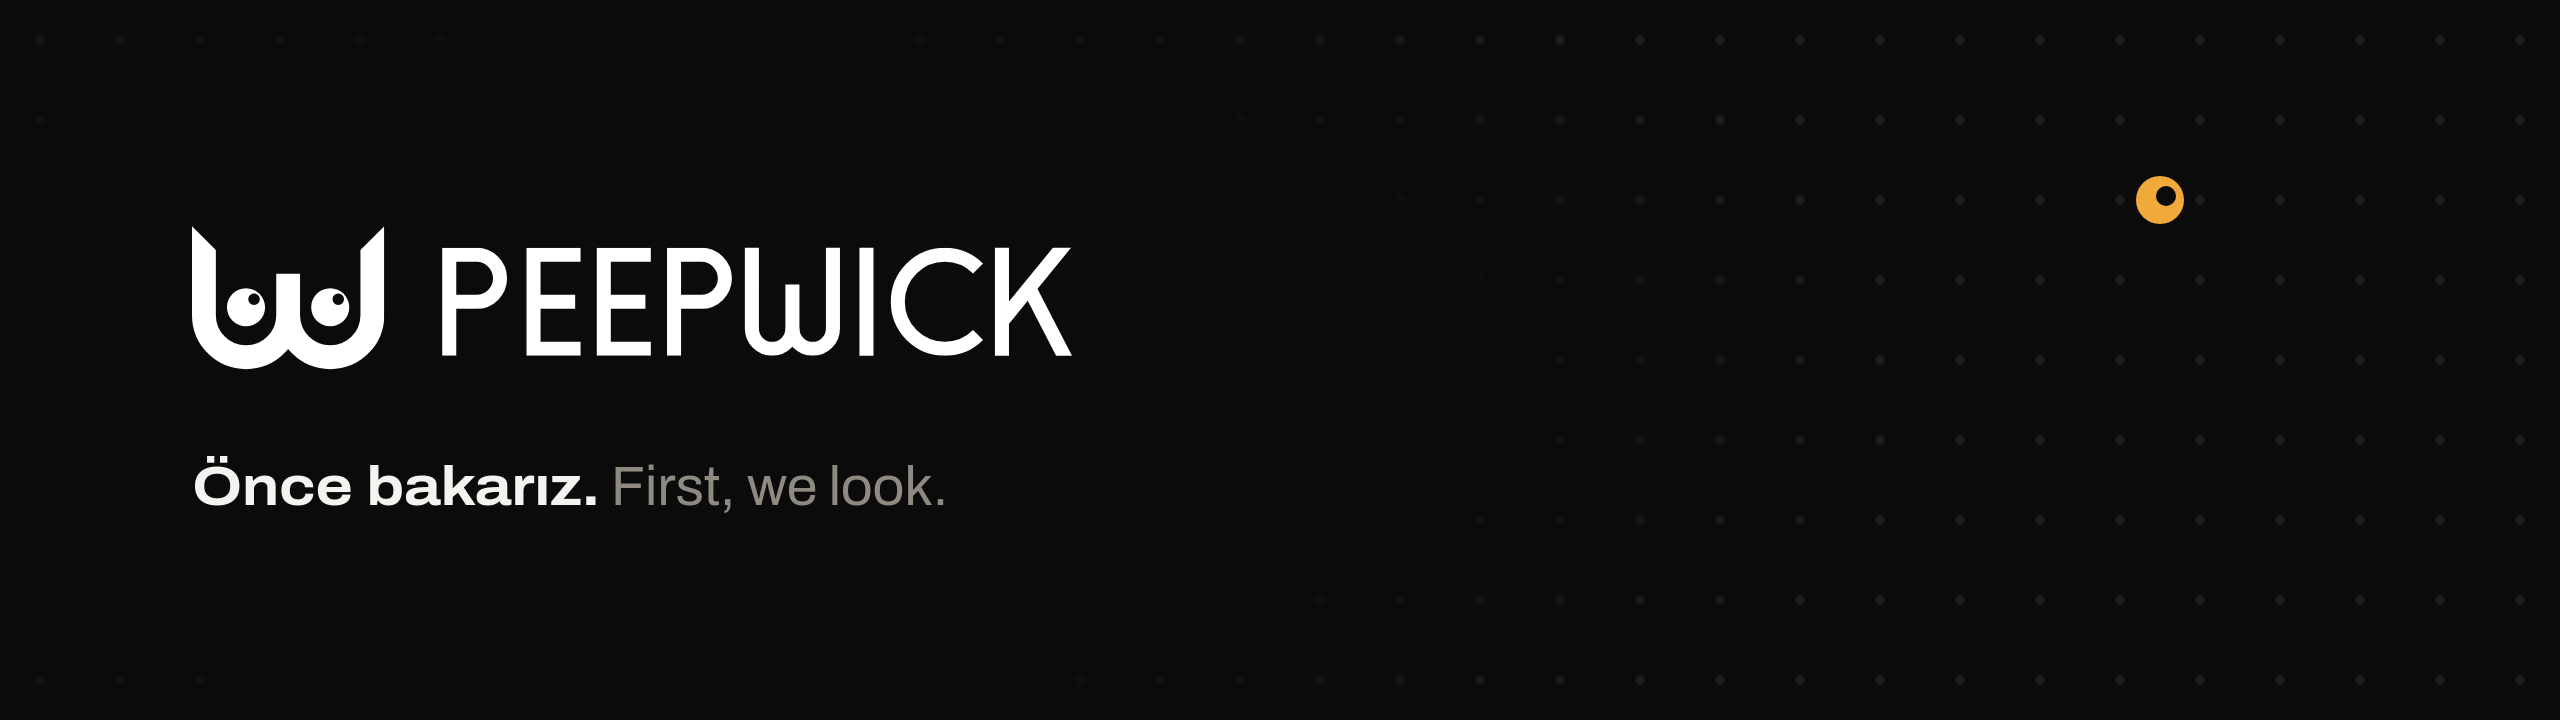
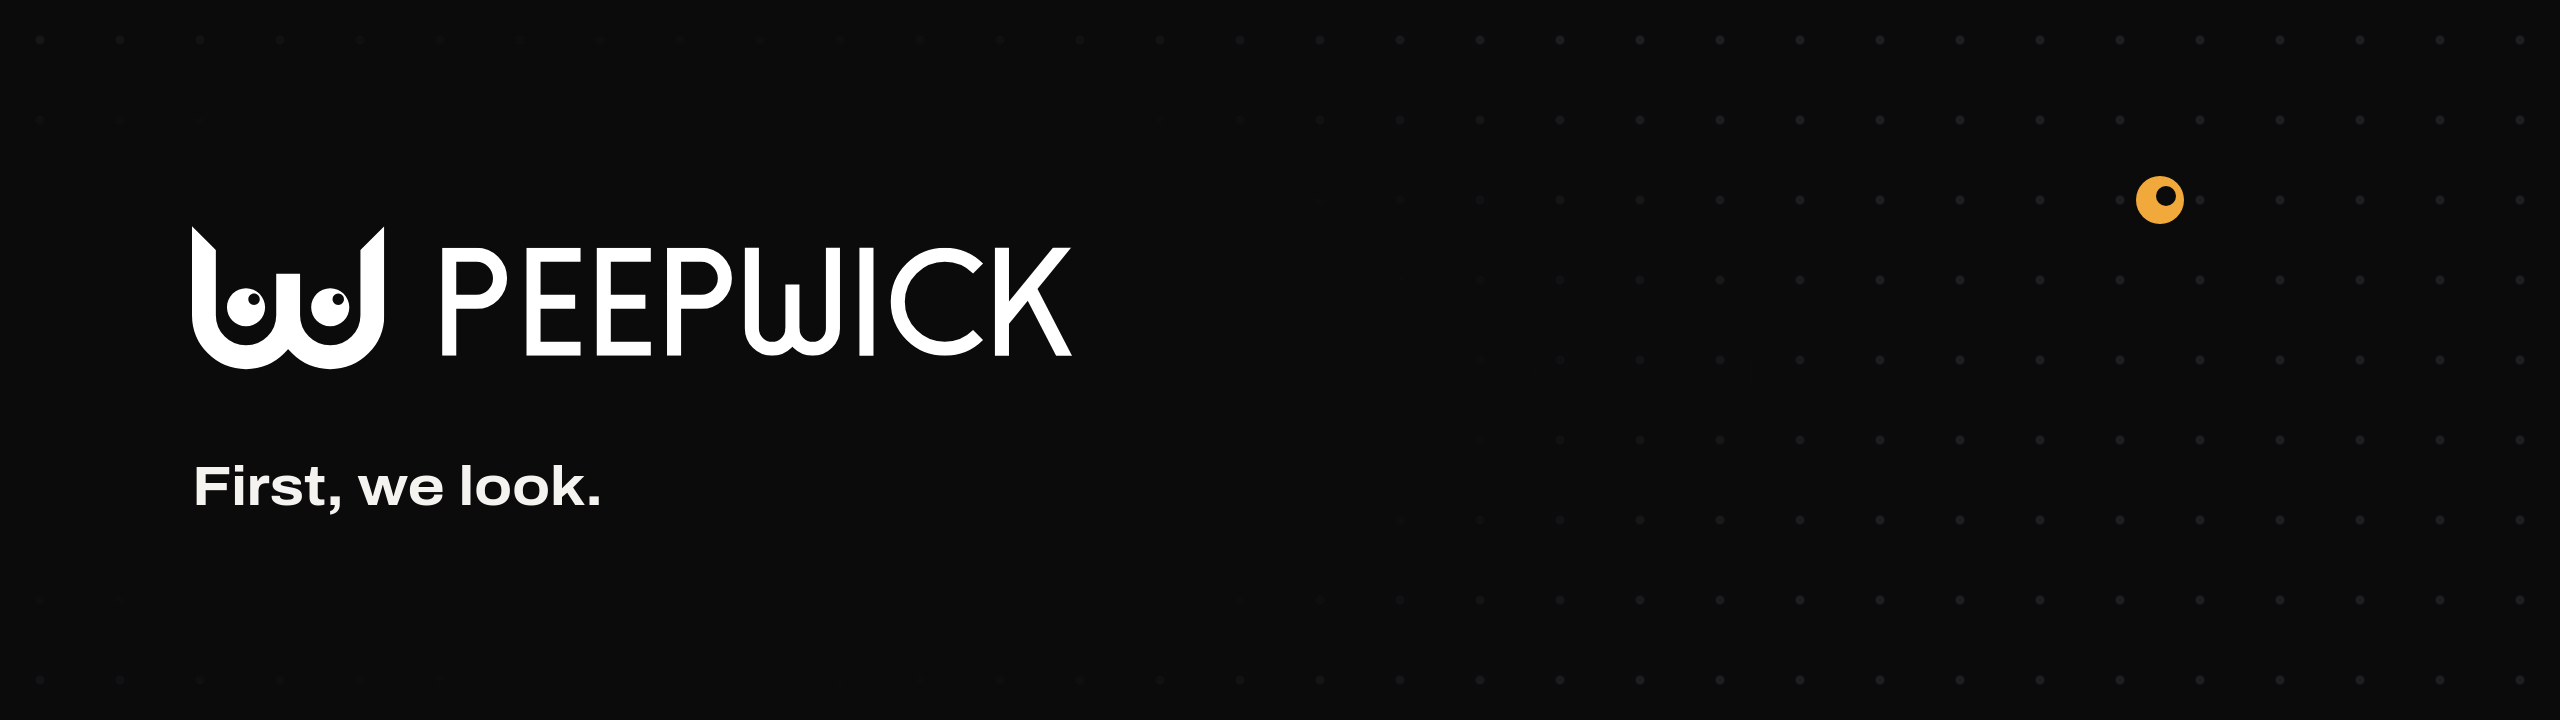
Organization pages in English only
The profile, its banner, the security policy, the contributing guide
and the issue forms drop their Turkish halves; Turkish stays in the
release notes.

Changed region(s): [[0.0625, 0.6417, 0.375, 0.7028]]

diff --git a/profile/README.md b/profile/README.md
@@ -1,15 +1,12 @@
 <p align="center">
   <picture>
     <source media="(prefers-color-scheme: dark)" srcset="banner-dark.png">
-    <img src="banner-light.png" alt="PEEPWICK · Önce bakarız. First, we look." width="100%">
+    <img src="banner-light.png" alt="PEEPWICK · First, we look." width="100%">
   </picture>
 </p>
 
 **PEEPWICK** is one brand with several lines of business, under one roof and one principle: look
 closely first, then make. This is where we build in the open.
-
-**PEEPWICK**, tek çatı altında birkaç iş kolunu yürüten bir marka. Hepsinin ilkesi aynı: önce
-dikkatle bakmak, sonra üretmek. Açık kaynak işlerimizi burada geliştiriyoruz.
 
 ## PEEPWICK Browser
 
@@ -20,43 +17,34 @@ and stays quiet: a black-and-white frame that lets the pages you visit keep thei
 Fingerprinting protection, cookie banners rejected for you, HTTPS-Only and signed updates. Written
 in Rust with Tauri and WebKitGTK, for Linux.
 
-**Dikkatinizi koruyan tarayıcı.** Reklamları ve izleyicileri engeller, alanlarınızı ayrı tutar ve
-sessiz kalır: siyah-beyaz bir çerçeve, gezdiğiniz sayfalar kendi renkleriyle. Parmak izi koruması,
-sizin yerinize reddedilen çerez bildirimleri, HTTPS-Only ve imzalı güncellemeler. Rust, Tauri ve
-WebKitGTK ile, Linux için.
-
-[**Download · İndir**](https://github.com/PEEPWICK/peepwick-browser/releases/tag/v0.2.1a)
-&nbsp;·&nbsp; [Source code · Kaynak kodu](https://github.com/PEEPWICK/peepwick-browser)
+[**Download**](https://github.com/PEEPWICK/peepwick-browser/releases/tag/v0.2.1a)
+&nbsp;·&nbsp; [Source code](https://github.com/PEEPWICK/peepwick-browser)
 &nbsp;·&nbsp; <sub>ALPHA · GPL-3.0</sub>
 
-## One roof, different fields · Tek çatı, farklı alanlar
+## One roof, different fields
 
-| Line · İş kolu | What it does · Ne yapar |
+| Line | What it does |
 | --- | --- |
-| **PEEPWICK&nbsp;Media** | A digital media and communications agency that runs strategy, content and paid media from one plan.<br>Strateji, içerik ve dijital reklamı tek planda yöneten dijital medya ve iletişim ajansı. |
-| **PEEPWICK&nbsp;Games** | Our games line. Every game ships under its own name; MASKOFF, a social game you play in the browser, is in Early Access.<br>Oyun iş kolumuz. Her oyun kendi adıyla çıkar; tarayıcıda oynanan sosyal oyun MASKOFF erken erişimde. |
-| **PEEPWICK&nbsp;Animation** | Our animation studio: carefully drawn cartoon series, in English [on YouTube](https://www.youtube.com/@peepwickanimation). The first one is WISP.<br>Animasyon stüdyomuz: özenle çizilmiş çizgi film serileri, İngilizce olarak YouTube'da. İlki WISP. |
-| **PEEPWICK&nbsp;Browser** | The browser that guards your attention. Open source, for Linux.<br>Dikkatinizi koruyan tarayıcı. Açık kaynaklı, Linux için. |
+| **PEEPWICK&nbsp;Media** | A digital media and communications agency that runs strategy, content and paid media from one plan. |
+| **PEEPWICK&nbsp;Games** | Our games line. Every game ships under its own name; MASKOFF, a social game you play in the browser, is in Early Access. |
+| **PEEPWICK&nbsp;Animation** | Our animation studio: carefully drawn cartoon series, in English [on YouTube](https://www.youtube.com/@peepwickanimation). The first one is WISP. |
+| **PEEPWICK&nbsp;Browser** | The browser that guards your attention. Open source, for Linux. |
 
-## Shared principles · Ortak ilkeler
+## Shared principles
 
-| Principle · İlke | What it means · Anlamı |
+| Principle | What it means |
 | --- | --- |
-| **Look first** · Önce bak | We observe before we decide.<br>Karar vermeden önce gözlem yaparız. |
-| **Say it plainly** · Açık söz | We tell the truth clearly, and on time.<br>Doğruyu anlaşılır bir dille ve zamanında söyleriz. |
-| **Care** · Özen | Small details are the foundation of big trust.<br>Küçük ayrıntılar büyük güvenin temelidir. |
-| **Evidence** · Kanıt | We rely on evidence, not opinion.<br>Görüşe değil kanıta dayanırız. |
-| **Ownership** · Sahiplik | We own the outcome of the work we take on.<br>Üstlendiğimiz işin sonucunu sahipleniriz. |
-| **Simplicity** · Sadelik | We cut what isn't needed.<br>Gereksiz olanı çıkarırız. |
+| **Look first** | We observe before we decide. |
+| **Say it plainly** | We tell the truth clearly, and on time. |
+| **Care** | Small details are the foundation of big trust. |
+| **Evidence** | We rely on evidence, not opinion. |
+| **Ownership** | We own the outcome of the work we take on. |
+| **Simplicity** | We cut what isn't needed. |
 
-## Contact · İletişim
+## Contact
 
 For bugs and ideas, open an issue on the project. Please report security issues privately, as
 described in our [security policy](https://github.com/PEEPWICK/.github/blob/main/SECURITY.md).
-
-Bir hata ya da öneri için ilgili projede bir *issue* açın. Güvenlik açıklarını lütfen
-[güvenlik politikamıza](https://github.com/PEEPWICK/.github/blob/main/SECURITY.md) göre özel olarak
-bildirin.
 
 [Instagram](https://www.instagram.com/peepwick/) &nbsp;·&nbsp; [X](https://x.com/peepwick)
 &nbsp;·&nbsp; [YouTube · PEEPWICK Animation](https://www.youtube.com/@peepwickanimation)

diff --git a/SECURITY.md b/SECURITY.md
@@ -1,4 +1,4 @@
-# Security policy · Güvenlik politikası
+# Security policy
 
 ## Reporting a vulnerability
 
@@ -15,19 +15,3 @@ fix ships, we credit you in the release notes unless you'd rather stay anonymous
 
 Only the newest version of each project receives security fixes. PEEPWICK Browser updates itself,
 so most users get fixes without doing anything.
-
----
-
-## Açık bildirme
-
-Güvenlik açıklarını lütfen **özel olarak** bildirin, herkese açık bir *issue* açmayın.
-
-1. İlgili reponun **Security** sekmesine gidin.
-2. **Report a vulnerability** seçeneğiyle neyi bulduğunuzu, nasıl tekrarlanacağını ve hangi sürümü
-   kullandığınızı yazın.
-
-Her bildirimi okuruz, tekrarlayabildiğimizi doğrular ve ne yapacağımızı size söyleriz. Düzeltme
-yayınlandığında, isimsiz kalmayı tercih etmediğiniz sürece sürüm notlarında adınızı anarız.
-
-Yalnızca her projenin en yeni sürümü güvenlik düzeltmesi alır. PEEPWICK Browser kendini güncellediği
-için çoğu kullanıcıya düzeltmeler kendiliğinden ulaşır.

diff --git a/CONTRIBUTING.md b/CONTRIBUTING.md
@@ -1,4 +1,4 @@
-# Contributing · Katkıda bulunmak
+# Contributing
 
 Thank you for taking a look. Before you write code, please open an issue so we can agree on the
 change first: it saves both of us time.
@@ -21,11 +21,3 @@ change first: it saves both of us time.
 
 By contributing you agree that your work is released under the project's license (GPL-3.0 for
 PEEPWICK Browser). The PEEPWICK name and logo are not covered by that license.
-
----
-
-Katkı vermeden önce lütfen bir *issue* açın, değişikliği birlikte netleştirelim. Her *pull request*
-tek bir değişiklik içersin; göndermeden önce projenin denetimlerini çalıştırın. Arayüz metinleri
-Türkçe ve İngilizcedir: yeni bir metin eklerseniz ikisine de ekleyin, ünlem kullanmadan, sakin ve
-açık bir dille yazın. Katkınız projenin lisansıyla yayınlanır; PEEPWICK adı ve logosu bu lisansın
-kapsamında değildir.

diff --git a/README.md b/README.md
@@ -1,7 +1,4 @@
 # PEEPWICK · .github
 
-Organizasyon profili (`profile/README.md`) ve bütün PEEPWICK repoları için varsayılan güvenlik
-politikası, katkı rehberi ve *issue* formları.
-
-The organization profile and the default security policy, contributing guide and issue forms for
-every PEEPWICK repository.
+The organization profile (`profile/README.md`) and the default security policy, contributing guide
+and issue forms for every PEEPWICK repository.
